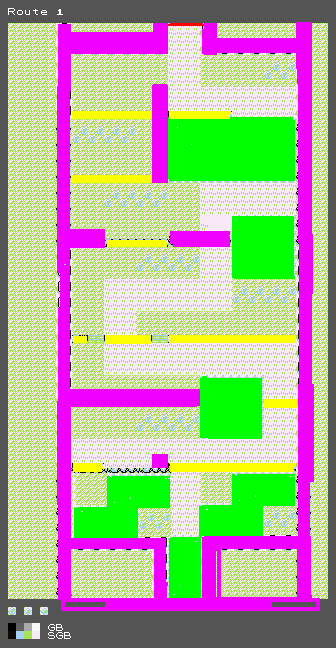
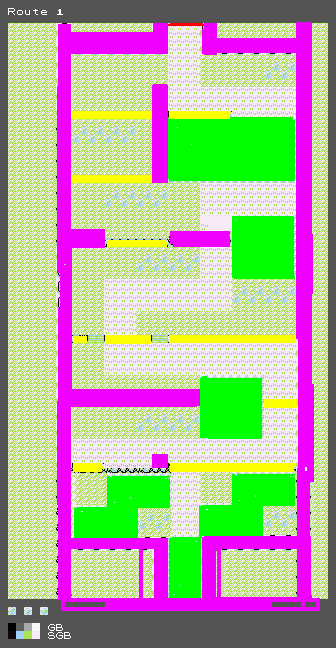
colisoes melhoradas

diff --git a/map.py b/map.py
@@ -6,7 +6,7 @@ verde = (0, 255, 0)
 
 
 def load_map():
-    mapa = pygame.image.load("assets/rota1masks.png").convert()
+    mapa = pygame.image.load("assets/rota1.png").convert()
     return mapa
 
 def load_mask():
@@ -24,7 +24,17 @@ def get_mask_color(mask, x, y):
     return color[:3]
 
 def is_collision(mask, rect): 
-    pontos = [ rect.topleft, rect.topright, rect.bottomleft, rect.bottomright, rect.midbottom, ] 
+    pontos = [
+        rect.topleft,
+        rect.topright,
+        rect.bottomleft,
+        rect.bottomright,
+        rect.center,
+        rect.midbottom,
+        rect.midtop,
+        rect.midleft,
+        rect.midright,
+    ]
     for x, y in pontos: 
         if get_mask_color(mask, x, y) == rosa: 
             return True 

diff --git a/player.py b/player.py
@@ -109,11 +109,10 @@ class Player:
     
     def get_rect(self):
         return pygame.Rect(
-            self.x,
-            self.y,
-            self.width,
-            self.height
-        )
+            self.x + 6,
+            self.y + 16,
+            self.width - 12,
+            self.height - 16)
     
     def gethits(self, tiles):
         hits = []

diff --git a/main.py b/main.py
@@ -30,6 +30,8 @@ mapa_height = mapa.get_height()
 game = True
 game_mode = 'andando'
 player = Player(182,522)
+print(mapa.get_size())
+print(mask.get_size())
 
 
 # ===== Loop principal =====
